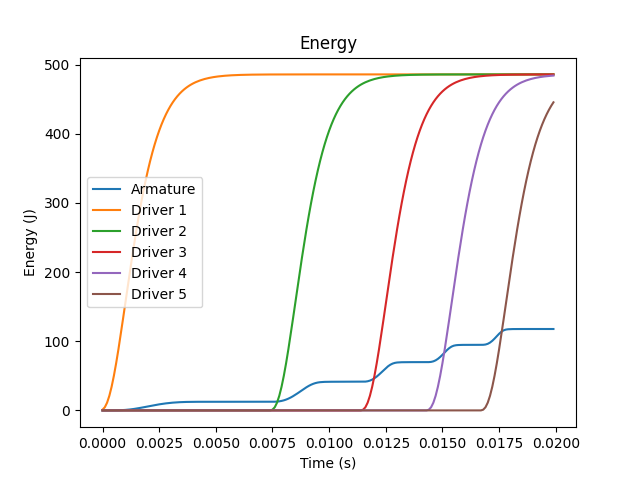
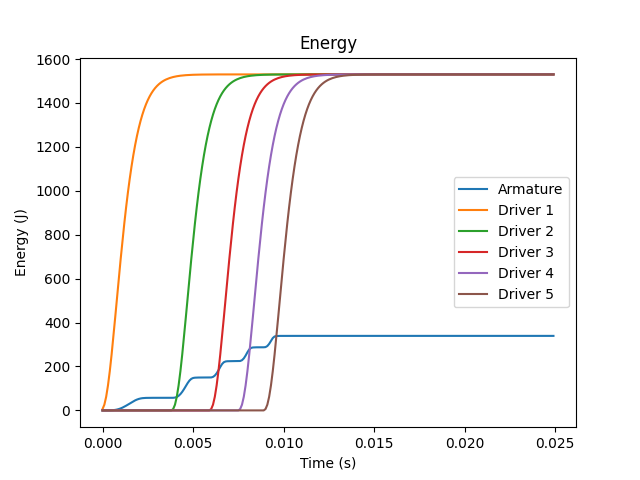
Further data reporting

diff --git a/Simulation/main.py b/Simulation/main.py
@@ -18,29 +18,28 @@ driver5 = classes.Coil(copper, 0.015, 0.05, 3, 0.00129)
 
 # Stages
 # Coil, position, trigger position, capacitance, voltage
-stage1 = classes.Stage(driver1, 0.0, 0.0, 0.0048, 450)
-stage2 = classes.Stage(driver2, 0.1, 0.1, 0.0048, 450)
-stage3 = classes.Stage(driver3, 0.2, 0.2, 0.0048, 450)
-stage4 = classes.Stage(driver4, 0.3, 0.3, 0.0048, 450)
-stage5 = classes.Stage(driver5, 0.4, 0.4, 0.0048, 450)
+stage1 = classes.Stage(driver1, 0.0, 0.0, 0.00306, 1000)
+stage2 = classes.Stage(driver2, 0.1, 0.1, 0.00306, 1000)
+stage3 = classes.Stage(driver3, 0.2, 0.2, 0.00306, 1000)
+stage4 = classes.Stage(driver4, 0.3, 0.3, 0.00306, 1000)
+stage5 = classes.Stage(driver5, 0.4, 0.4, 0.00306, 1000)
 
 # Projectile
 # Coil, position, mass
 projectile = classes.Projectile(armature, 0.01, 0.1)
 
 
-runtime = 0.02
-timestep = 0.0001
-
 stage_list = [stage1, stage2, stage3, stage4, stage5]
 velocities = []
 accelerations = []
 positions = []
-armature_currents = []
 
 armature_energy = []
 driver_energy = []
 efficiency = []
+
+runtime = 0.025
+timestep = 0.0001
 
 for step in np.arange(0, runtime, timestep):
     # Timestep, step, driver list, projectile
@@ -49,7 +48,6 @@ for step in np.arange(0, runtime, timestep):
     velocities.append(output[0].vel)
     accelerations.append(output[0].accel)
     positions.append(output[0].pos)
-    armature_currents.append(output[0].coil.current)
 
     armature_energy.append(armature.energy)
     driver_energy_sum = driver1.energy + driver2.energy + driver3.energy + driver4.energy + driver5.energy
@@ -75,7 +73,7 @@ p.set(xlabel='Time (s)', ylabel='Acceleration (m/s^2)', title='Projectile Accele
 figa.savefig("accel.png")
 
 figi, i = plt.subplots()
-i.plot(time, armature_currents)
+i.plot(time, projectile.coil.currents_list)
 for stage in range(len(stage_list)):
     i.plot(time, stage_list[stage].coil.currents_list)
 i.set(xlabel='Time (s)', ylabel='Currents (A)', title='Currents')

diff --git a/Simulation/methods.py b/Simulation/methods.py
@@ -25,6 +25,7 @@ def solve_currents(stage, projectile, driver_step, armature_step):
     armature = projectile.coil
     driver = stage.coil
     M = mutual_inductance(stage, projectile)
+
     driver.current = stage.voltage / driver.inductance * driver_step * \
                           pow(math.e, -driver.resistance / (2 * driver.inductance) * driver_step)
     armature.current = -M / armature.inductance * driver.current * (1 - pow(math.e, -armature_step / armature.tau))

diff --git a/Simulation/parameters.py b/Simulation/parameters.py
@@ -5,5 +5,5 @@ import classes
 mu0 = 4 * np.pi * pow(10, -7)
 ambient_temp = 300
 
-# Density, heat capacity, resistivity, alpha
+# Density, heat capacity, resistivity, alpha (temperature dependent resistivity coefficient)
 copper = classes.Material(8960, 385, 1.68 * pow(10, -8), 0.00382 * pow(10, -8))

diff --git a/Simulation/run_step.py b/Simulation/run_step.py
@@ -33,6 +33,7 @@ def run_turn(timestep, stage_list, projectile):
         driver.currents_list.append(driver.current)
         driver.energy_list.append(driver.energy)
 
+    armature.currents_list.append(armature.current)
     armature.energy_list.append(armature.energy)
 
 
